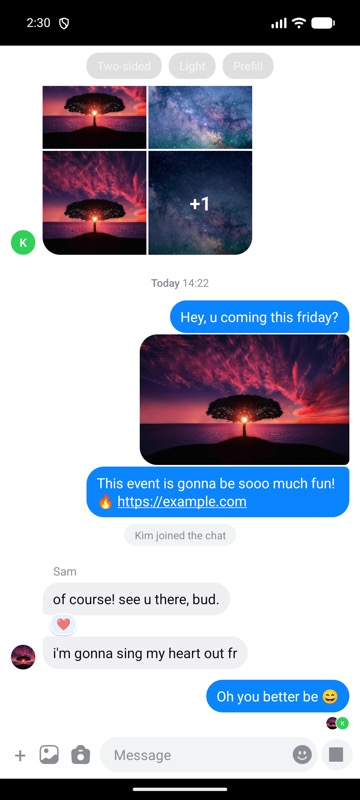
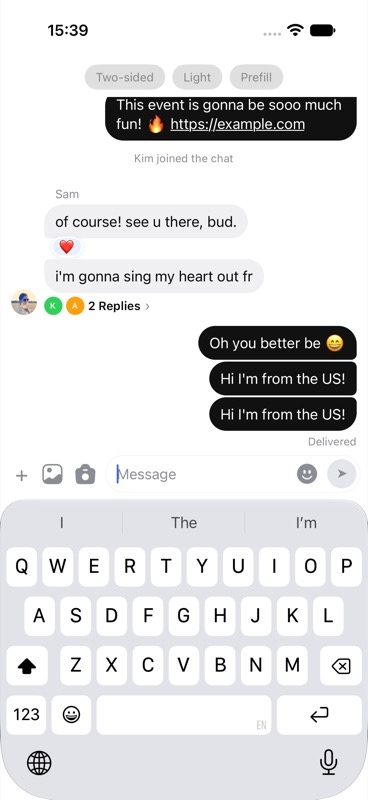
docs(example): apply the Cal AI reference theme to both layouts
- example uses primary/ownBubble #111111 and a white input in both layouts
- README design-reference note and two-sided preview updated

diff --git a/example/src/App.tsx b/example/src/App.tsx
@@ -158,8 +158,10 @@ function ComposerActions() {
   );
 }
 
-// one-sided demo mirrors the Mobbin reference (Cal AI): near-black accent
-const calAiLike = { colors: { primary: '#111111', surface: '#FFFFFF' } };
+// demo theme mirrors the Mobbin reference (Cal AI): near-black accent, white input
+const calAiLike = {
+  colors: { primary: '#111111', ownBubble: '#111111', surface: '#FFFFFF' },
+};
 
 // slots are defined once, outside render
 const components = { ComposerActions };
@@ -223,7 +225,7 @@ function ChatExample() {
         messages={messages}
         user={me}
         layout={layout}
-        theme={dark ? darkTheme : layout === 'list' ? calAiLike : undefined}
+        theme={dark ? darkTheme : calAiLike}
         components={components}
         showSenderName
         composerProps={{ bottomInset: BOTTOM_INSET }}

diff --git a/README.md b/README.md
@@ -18,7 +18,7 @@ Chat UI for React Native that you can restyle and take apart piece by piece.
   <img src="preview/reactions.jpg" width="180" alt="Reaction picker">
 </p>
 
-Design reference: [Cal AI – Sending a message in a group](https://mobbin.com/flows/aa385ee8-cc31-4230-95fd-82fd8fde4e12) (one-sided layout, in-pill send button, reply threads), plus the two-sided pattern shared by the "Chatting & Sending Messages" flows on Mobbin. The example's one-sided mode uses `theme={{ colors: { primary: '#111111', surface: '#FFFFFF' } }}` to mirror it.
+Design reference: [Cal AI – Sending a message in a group](https://mobbin.com/flows/aa385ee8-cc31-4230-95fd-82fd8fde4e12) (one-sided layout, in-pill send button, reply threads), plus the two-sided pattern shared by the "Chatting & Sending Messages" flows on Mobbin. The example applies it to both layouts with `theme={{ colors: { primary: '#111111', ownBubble: '#111111', surface: '#FFFFFF' } }}`.
 
 ## Installation
 
